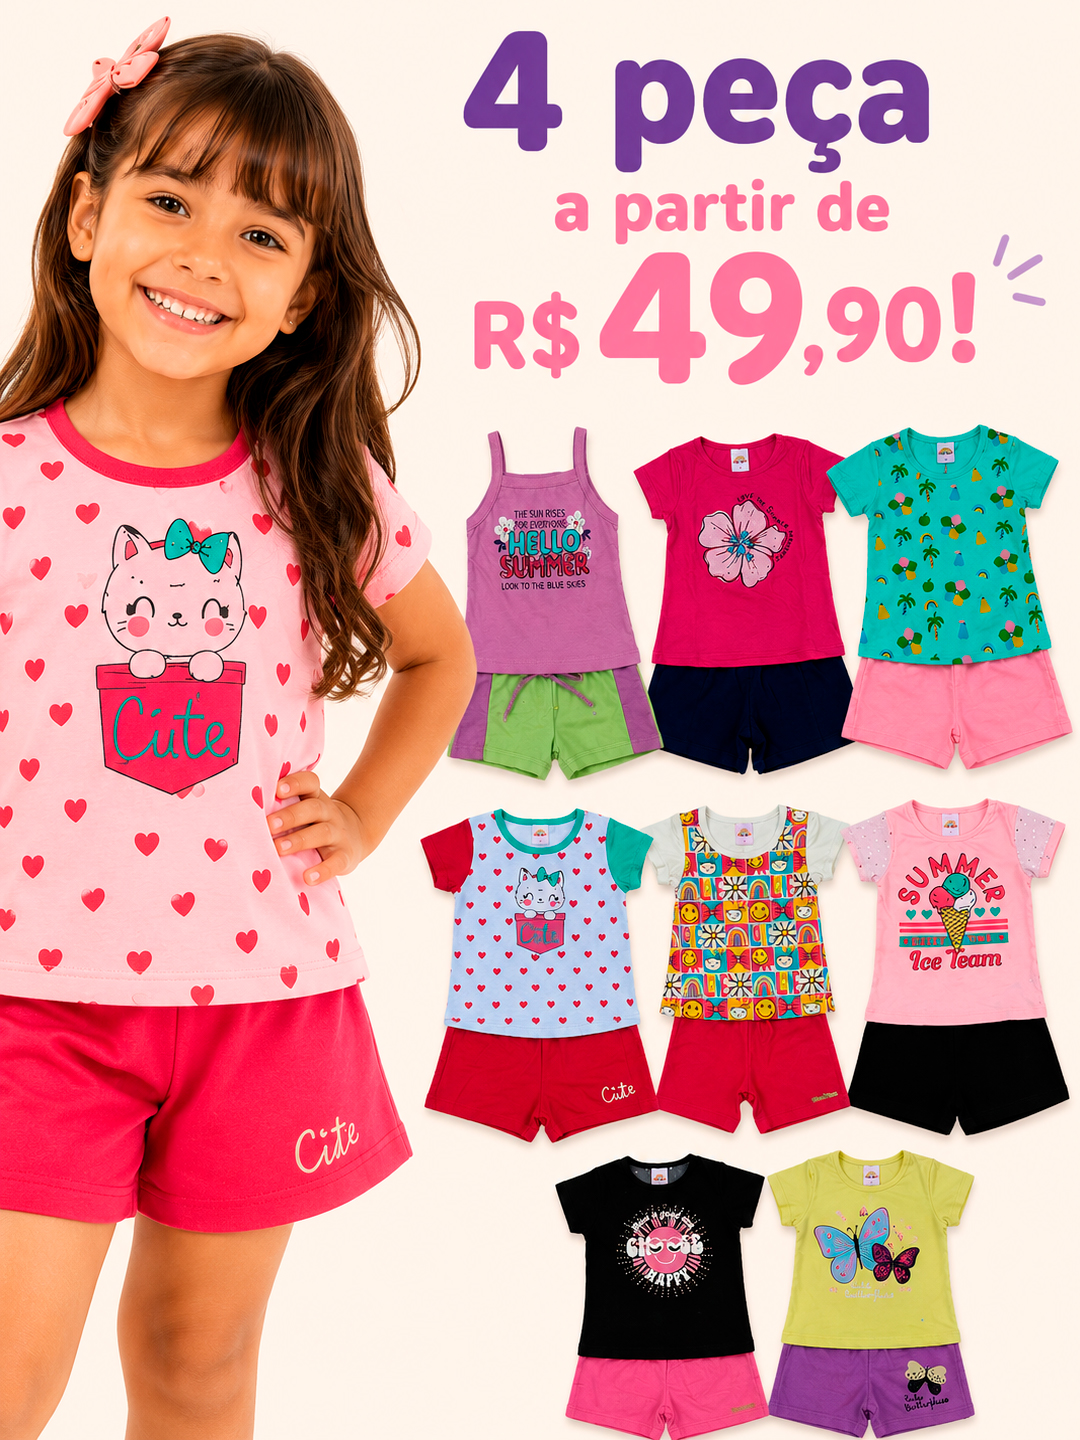
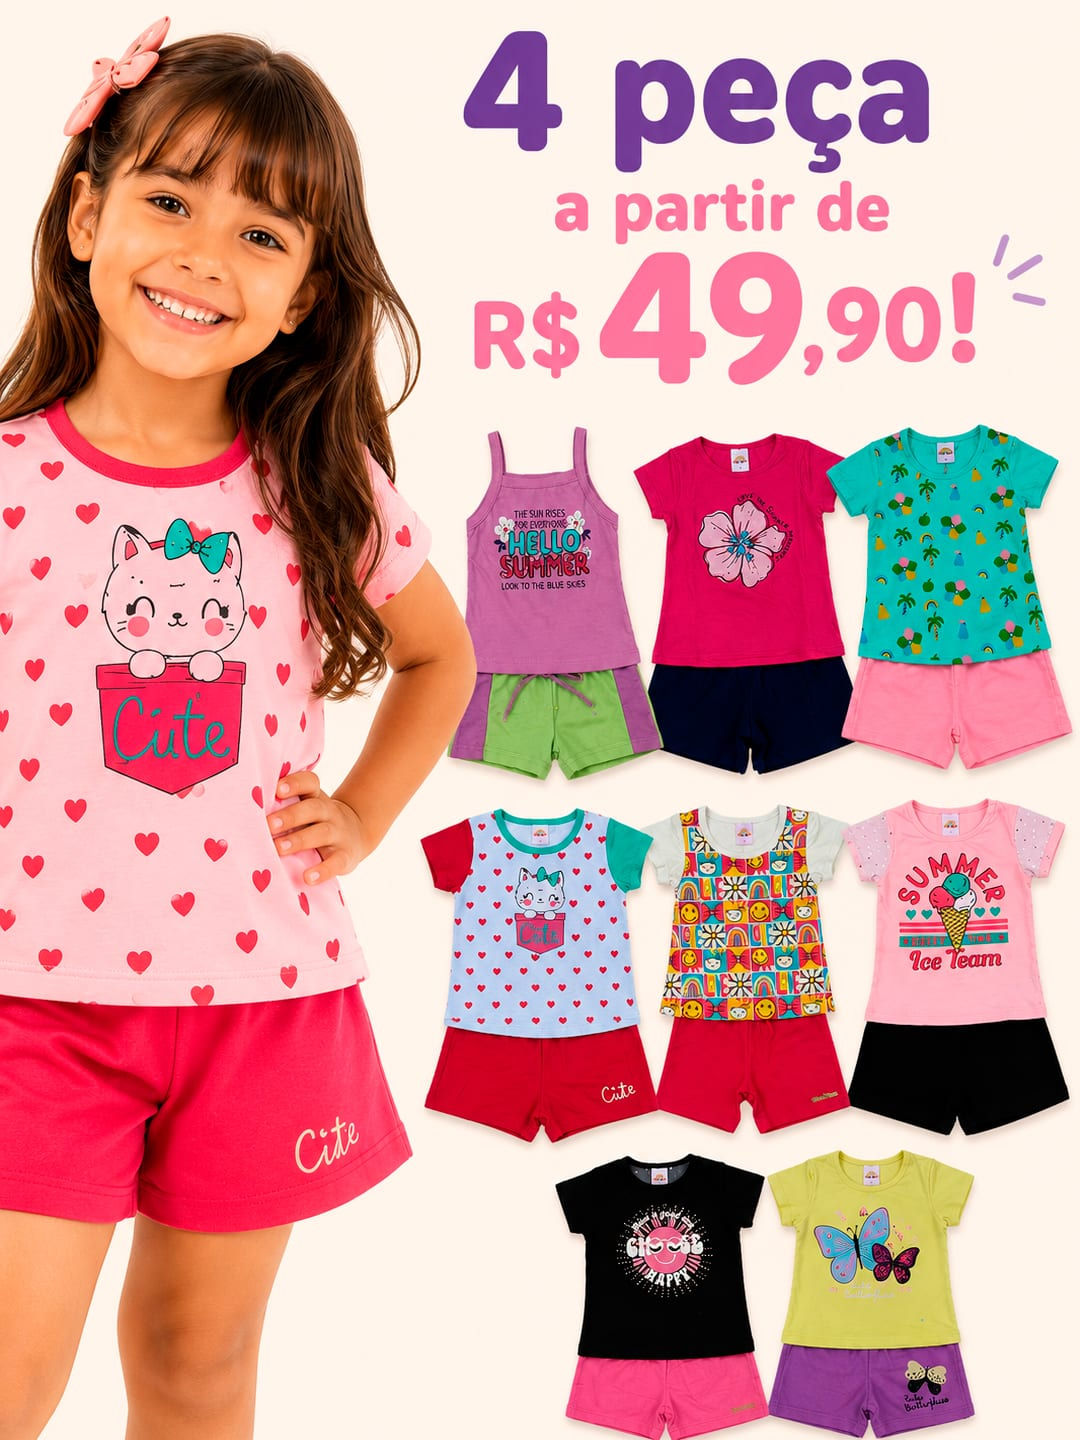
perf(seo): imagens 82% menores, h1 na /pedido e links internos
- kit-verao-menino.jpg 911 KB -> 170 KB, kit-verao-menina.jpg 1133 KB -> 203 KB
  (recompressao mozjpeg q82, mesma resolucao 1080x1440). A /pedido saiu de
  2044 KB para 373 KB de imagem, o que mexe direto no LCP no celular.
- /pedido nao tinha h1 nenhum. Agora tem, com a expressao que a cliente busca.
- posts do blog ganharam links contextuais para /pedido e entre si, com texto
  ancora descritivo em vez de so um botao no fim.
- /pedido era orfa (zero links internos saindo). Passou a listar os guias.

diff --git a/app/pedido/page.tsx b/app/pedido/page.tsx
@@ -1,7 +1,9 @@
 import type { Metadata } from "next";
 import Image from "next/image";
+import Link from "next/link";
 import { Assistant } from "../Assistant";
 import { jsonLdScript, listaDeProdutos, perguntas, FAQ } from "@/lib/seo";
+import { POSTS } from "@/lib/posts";
 
 export const metadata: Metadata = {
   // titulo escrito para a busca ("kit de roupa infantil"), nao so para a marca
@@ -338,6 +340,13 @@ export default function Home() {
         />
       </div>
 
+      {/*
+        H1 com a palavra que a cliente busca. A pagina nao tinha titulo nenhum,
+        entao o Google nao sabia do que ela trata.
+      */}
+      <h1 className="relative z-10 mb-2 max-w-sm text-center font-[family-name:var(--font-baloo)] text-2xl font-extrabold leading-tight text-[var(--purple-dark)]">
+        Roupa infantil com preço que cabe no bolso
+      </h1>
       <p className="relative z-10 mb-6 max-w-xs text-center text-[15px] leading-relaxed text-[var(--ink)]/75">
         Achadinhos e promoções para o universo infantil, escolhidos com carinho
         de quem entende de criança. 💜
@@ -383,6 +392,33 @@ export default function Home() {
               </summary>
               <p className="mt-2 pl-5 text-sm leading-relaxed text-[var(--ink)]/75">{f.resposta}</p>
             </details>
+          ))}
+        </div>
+      </section>
+
+      {/*
+        Guias do blog. Alem de ajudar a cliente antes da compra, tira a pagina
+        do isolamento: ate aqui ela nao apontava para nenhuma outra do site.
+      */}
+      <section className="relative z-10 mt-10 w-full">
+        <h2 className="mb-3 font-[family-name:var(--font-baloo)] text-xl font-extrabold text-[var(--purple-dark)]">
+          Guias que ajudam na hora de escolher
+        </h2>
+        <div className="flex flex-col gap-2">
+          {POSTS.map((post) => (
+            <Link
+              key={post.slug}
+              href={`/blog/${post.slug}`}
+              className="group flex items-center gap-3 rounded-2xl border-2 border-transparent bg-white p-3 shadow-[0_4px_0_rgba(109,40,184,0.1)] transition-all hover:-translate-y-0.5 hover:border-[var(--purple)]"
+            >
+              <span className="text-2xl">{post.emoji}</span>
+              <span className="flex-1 text-sm font-bold leading-snug text-[var(--purple-dark)]">
+                {post.titulo}
+              </span>
+              <span className="text-[var(--purple)] transition-transform group-hover:translate-x-1">
+                →
+              </span>
+            </Link>
           ))}
         </div>
       </section>

diff --git a/lib/posts.ts b/lib/posts.ts
@@ -6,6 +6,8 @@
 
 export type Bloco =
   | { tipo: "p"; texto: string }
+  // paragrafo com link interno: o texto ancora ajuda a busca a entender o destino
+  | { tipo: "p-link"; antes: string; ancora: string; href: string; depois: string }
   | { tipo: "h2"; texto: string }
   | { tipo: "lista"; itens: string[] }
   | { tipo: "destaque"; texto: string }
@@ -91,6 +93,13 @@ export const POSTS: Post[] = [
         ],
       },
       {
+        tipo: "p-link",
+        antes: "Depois de descobrir o tamanho, vale dar uma olhada nos ",
+        ancora: "kits de roupa infantil com pronta entrega",
+        href: "/pedido",
+        depois: ", que vêm com quatro peças e já saem no tamanho que você escolher.",
+      },
+      {
         tipo: "p",
         texto:
           "E se bater dúvida, chama a gente no WhatsApp. A gente confere a medida do kit junto com você antes de fechar o pedido. 💜",
@@ -145,6 +154,13 @@ export const POSTS: Post[] = [
           "Comprar muitos números acima achando que vai durar. A peça fica guardada, sai de estação, e quando serve já não combina com o clima. Prefira comprar para agora e no máximo um tamanho à frente.",
       },
       {
+        tipo: "p-link",
+        antes: "É por isso que a gente trabalha com ",
+        ancora: "kit de roupa infantil com peças que combinam",
+        href: "/pedido",
+        depois: ": rende mais combinação com menos peça no guarda-roupa.",
+      },
+      {
         tipo: "p",
         texto:
           "Se quiser, a gente monta uma sugestão de enxoval enxuto para a idade do seu filho. É só chamar. 💜",
@@ -195,6 +211,13 @@ export const POSTS: Post[] = [
         tipo: "destaque",
         texto:
           "Secar na sombra parece bobagem, mas é o que mais preserva a cor. Sol forte desbota em poucas lavagens.",
+      },
+      {
+        tipo: "p-link",
+        antes: "E para a peça durar de verdade, ela precisa servir direito desde o começo: veja a ",
+        ancora: "tabela de tamanhos de roupa infantil",
+        href: "/blog/tabela-de-tamanhos-roupa-infantil",
+        depois: " antes de comprar.",
       },
       {
         tipo: "p",

diff --git a/app/blog/[slug]/page.tsx b/app/blog/[slug]/page.tsx
@@ -43,6 +43,19 @@ function RenderBloco({ bloco }: { bloco: Bloco }) {
       );
     case "p":
       return <p className="mt-3 text-[16px] leading-relaxed text-[var(--ink)]/80">{bloco.texto}</p>;
+    case "p-link":
+      return (
+        <p className="mt-3 text-[16px] leading-relaxed text-[var(--ink)]/80">
+          {bloco.antes}
+          <Link
+            href={bloco.href}
+            className="font-bold text-[var(--purple)] underline decoration-[var(--purple)]/30 underline-offset-2 hover:decoration-[var(--purple)]"
+          >
+            {bloco.ancora}
+          </Link>
+          {bloco.depois}
+        </p>
+      );
     case "lista":
       return (
         <ul className="mt-3 space-y-2">
